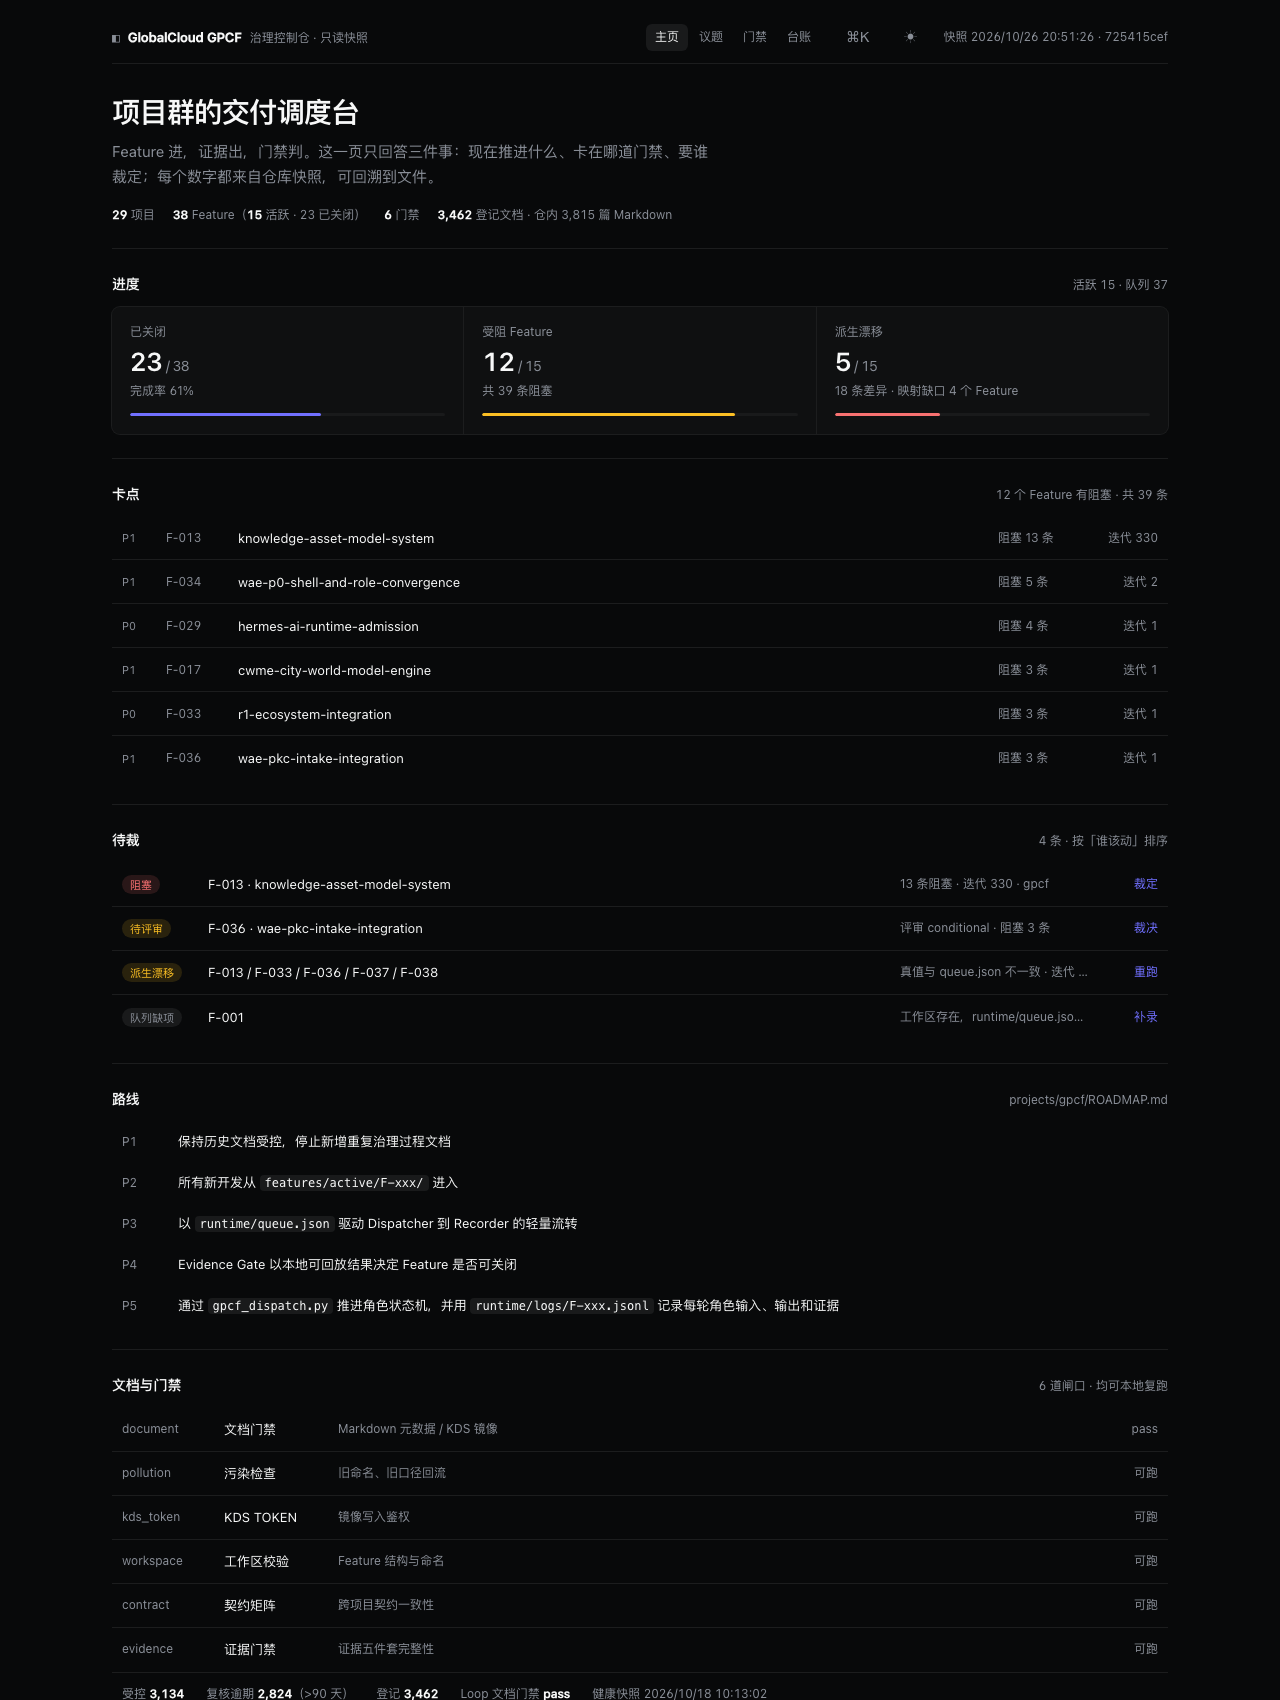
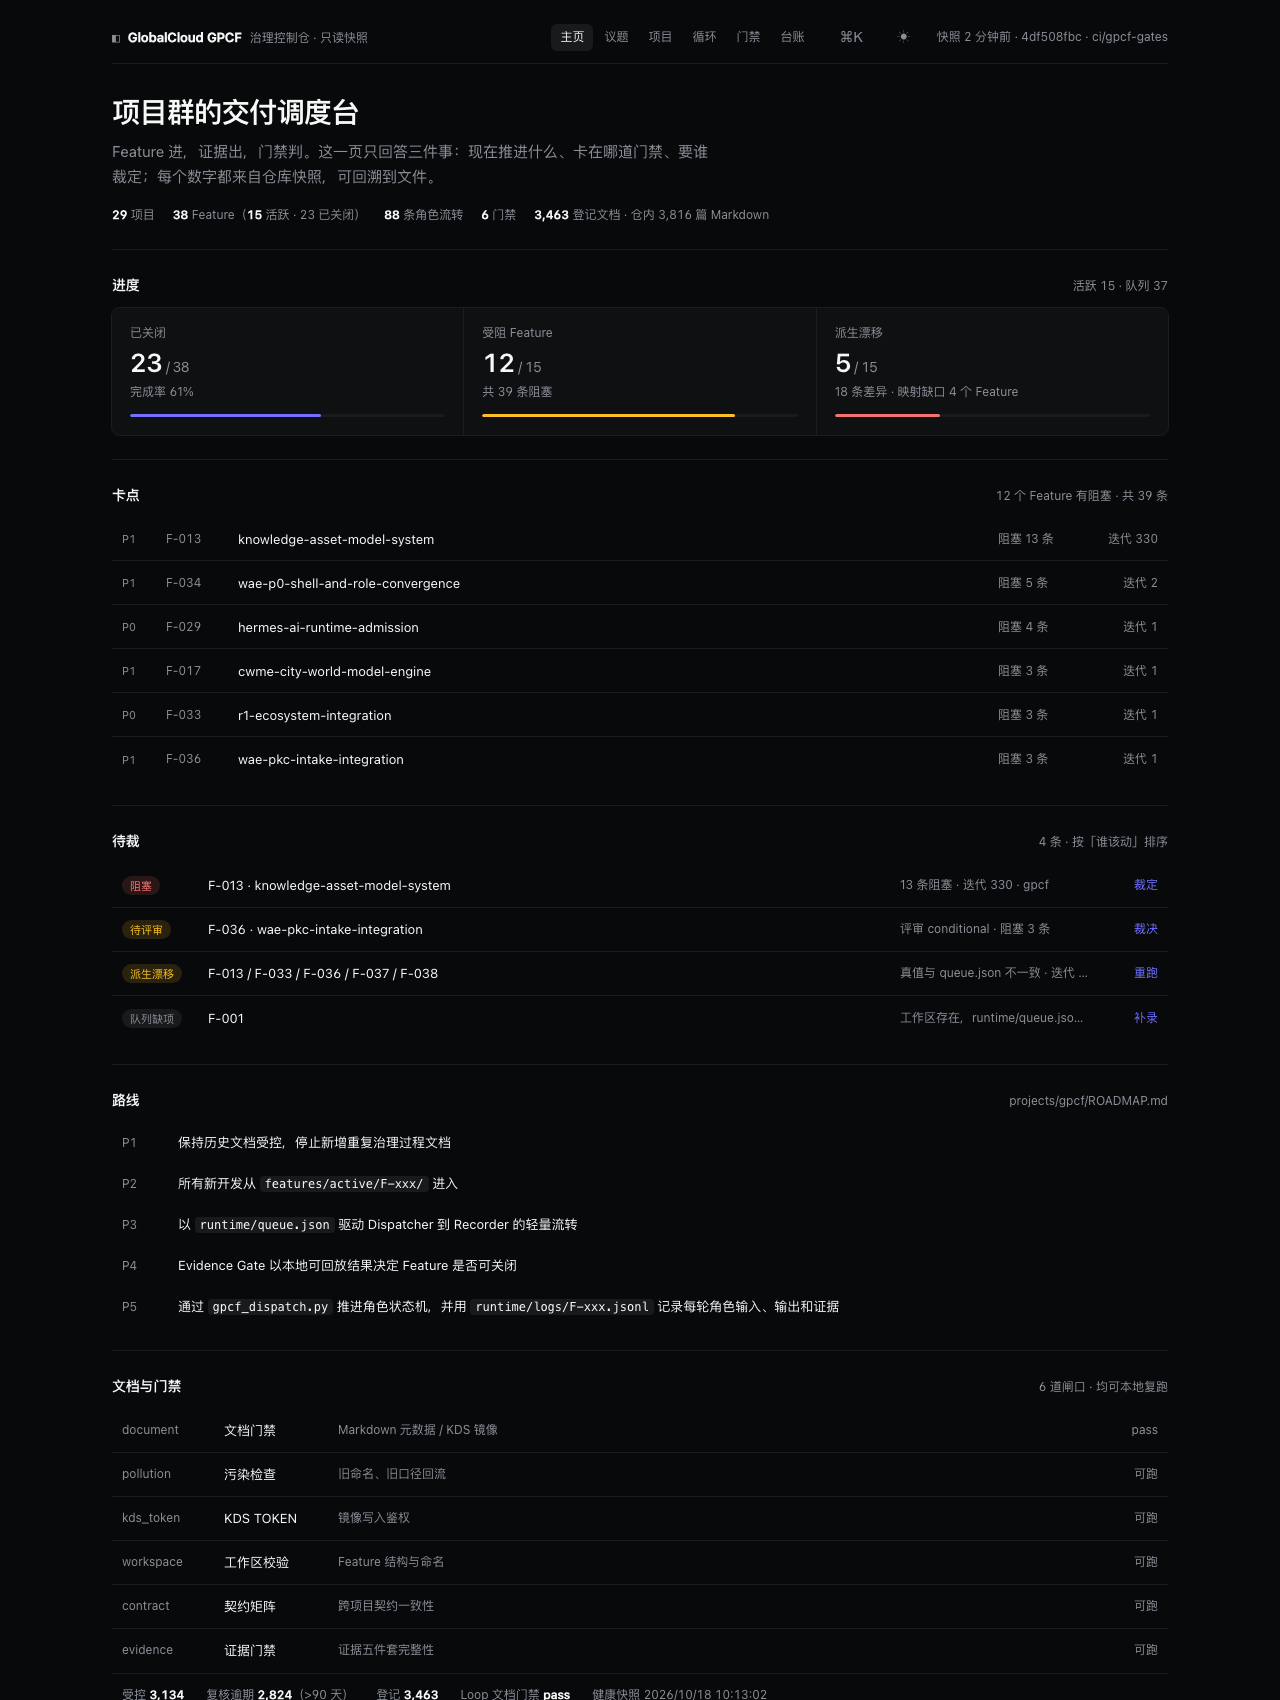
feat(console): 快照年龄/过期徽标 + 首页数字下钻 + 移动端 375 布局
- ui.js: 新增 age()，>24h 判为过期
- app.js: 顶栏改为「快照 N 分钟前 · sha · 分支」，过期时追加徽标
- views.js: 首页事实数字全部变成入口（项目 / 议题 / 流转 / 门禁 / 台账）
- styles.css: 375 宽顶栏重排（品牌+按钮、导航、快照三行），事实数字链接化
- evidence: 新增 home-mobile-375.png；主页 1280 暗/亮截图刷新

验收: pytest 80 passed；ui_gate --strict 退出 0；CDP 实测 375/1280 无横向溢出、5 个入口、无 JS 异常

diff --git a/console/assets/views.js b/console/assets/views.js
@@ -23,12 +23,16 @@ function progressCell(label, value, total, caption, tone) {
   </div>`;
 }
 
-function facts(counts, gates, docs) {
+function facts(counts, gates, docs, loops) {
+  const loop = loops
+    ? `<span><a class="factlink" href="#/loops"><b>${num(loops.count)}</b> 条角色流转</a></span>`
+    : "";
   return `<div class="facts">
-    <span><b>${num(counts.projects)}</b> 项目</span>
-    <span><b>${num(counts.features)}</b> Feature（<b>${num(counts.active)}</b> 活跃 · ${num(counts.done)} 已关闭）</span>
-    <span><b>${num(gates.count)}</b> 门禁</span>
-    <span><b>${num(docs.registered_docs)}</b> 登记文档 · 仓内 ${num(docs.repo_markdown)} 篇 Markdown</span>
+    <a class="factlink" href="#/projects"><b>${num(counts.projects)}</b> 项目</a>
+    <a class="factlink" href="#/features"><b>${num(counts.features)}</b> Feature（<b>${num(counts.active)}</b> 活跃 · ${num(counts.done)} 已关闭）</a>
+    ${loop}
+    <a class="factlink" href="#/gates"><b>${num(gates.count)}</b> 门禁</a>
+    <a class="factlink" href="#/docs"><b>${num(docs.registered_docs)}</b> 登记文档 · 仓内 ${num(docs.repo_markdown)} 篇 Markdown</a>
   </div>`;
 }
 
@@ -118,7 +122,7 @@ export function home(data) {
     <section class="hero">
       <h1>项目群的交付调度台</h1>
       <p class="lede">Feature 进，证据出，门禁判。这一页只回答三件事：现在推进什么、卡在哪道门禁、要谁裁定；每个数字都来自仓库快照，可回溯到文件。</p>
-      ${facts(meta.counts, gates, docs)}
+      ${facts(meta.counts, gates, docs, data.loops)}
     </section>
     ${band("进度", `活跃 ${num(meta.counts.active)} · 队列 ${num(meta.counts.queue)}`, `<div class="progress-grid">
       ${progressCell("已关闭", meta.counts.done, meta.counts.features, `完成率 ${doneRatio.toFixed(0)}%`, "")}

diff --git a/console/assets/styles.css b/console/assets/styles.css
@@ -129,6 +129,16 @@ kbd {
 
 .facts b { color: var(--ink); font-weight: 510; }
 
+.factlink { color: inherit; text-decoration: none; border-bottom: 1px solid transparent; }
+
+.stale {
+  font-size: 10px;
+  padding: 1px 6px;
+  border-radius: 999px;
+  color: var(--warn);
+  background: color-mix(in srgb, var(--warn) 14%, transparent);
+}
+
 /* ---------- band shell ---------- */
 
 .band { padding: 24px 0; border-bottom: 1px solid var(--border); }
@@ -570,6 +580,7 @@ kbd {
   .topnav a:hover { color: var(--ink); }
   .palette-item:hover { background: var(--alt); }
   .seg button:hover { color: var(--ink); }
+  .factlink:hover { border-bottom-color: var(--dim); }
   .icon:hover { color: var(--ink); background: var(--alt); }
   .cmd .copy:hover { color: var(--ink); }
 }
@@ -602,9 +613,13 @@ kbd {
 
 @media (max-width: 900px) {
   .page { padding: 18px 18px 44px; }
-  .masthead { flex-wrap: wrap; gap: 8px; }
+  .masthead { flex-wrap: wrap; gap: 6px 8px; }
+  .brand { order: 1; }
+  .brand-sub { display: none; }
+  #palette-trigger { order: 2; margin-left: auto; }
+  #theme-toggle { order: 2; }
   .topnav { order: 3; width: 100%; margin-left: 0; }
-  .masthead-meta { margin-left: auto; }
+  .masthead-meta { order: 4; width: 100%; margin-left: 0; }
   .hero h1 { font-size: 23px; }
   .progress-grid, .docs-grid { grid-template-columns: 1fr; }
   .split { grid-template-columns: minmax(0, 1fr); }

diff --git a/console/assets/app.js b/console/assets/app.js
@@ -2,7 +2,7 @@
 // Data: console/public/data/*.json written by scripts/console_export.py (read-only).
 // Serve with: python3 -m http.server 4173 --directory console
 
-import { esc, num, short, time } from "./ui.js";
+import { age, esc, num, short, time } from "./ui.js";
 import {
   docsPage,
   featurePanel,
@@ -407,7 +407,8 @@ async function main() {
   try {
     await loadData();
     renderRoute();
-    $("#masthead-meta").textContent = `快照 ${time(state.data.meta.generated_at)} · ${short(state.data.meta.source_sha, 9)}`;
+    const snapshot = age(state.data.meta.generated_at);
+    $("#masthead-meta").innerHTML = `快照 ${esc(snapshot.label)} · ${esc(short(state.data.meta.source_sha, 9))} · ${esc(state.data.meta.source_branch || "—")}${snapshot.stale ? ' <span class="stale">已过期</span>' : ""}`;
     const foot = $("#pagefoot");
     if (foot) {
       const meta = state.data.meta;

diff --git a/console/assets/ui.js b/console/assets/ui.js
@@ -20,6 +20,18 @@ export const time = (iso) => {
   return date.toLocaleString("zh-CN", { hour12: false });
 };
 
+export function age(iso) {
+  if (!iso) return { label: "—", stale: true };
+  const stamp = new Date(iso).valueOf();
+  if (Number.isNaN(stamp)) return { label: "—", stale: true };
+  const minutes = Math.max(0, Math.round((Date.now() - stamp) / 60000));
+  const label = minutes < 1 ? "刚刚"
+    : minutes < 60 ? `${minutes} 分钟前`
+    : minutes < 1440 ? `${Math.round(minutes / 60)} 小时前`
+    : `${Math.round(minutes / 1440)} 天前`;
+  return { label, stale: minutes > 1440 };
+}
+
 export const row = (cells, className = "") =>
   `<div class="row ${className}">${cells.join("")}</div>`;
 
